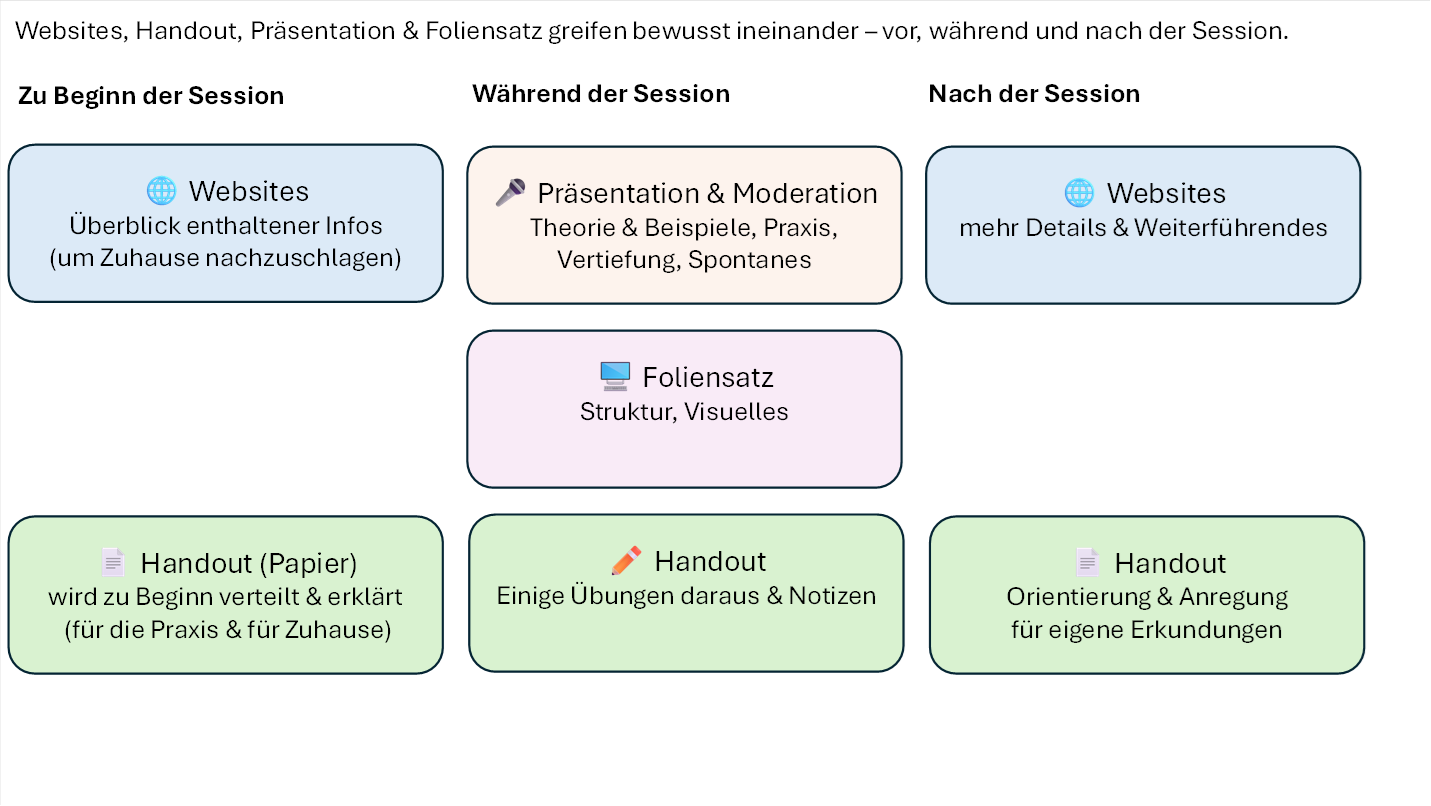
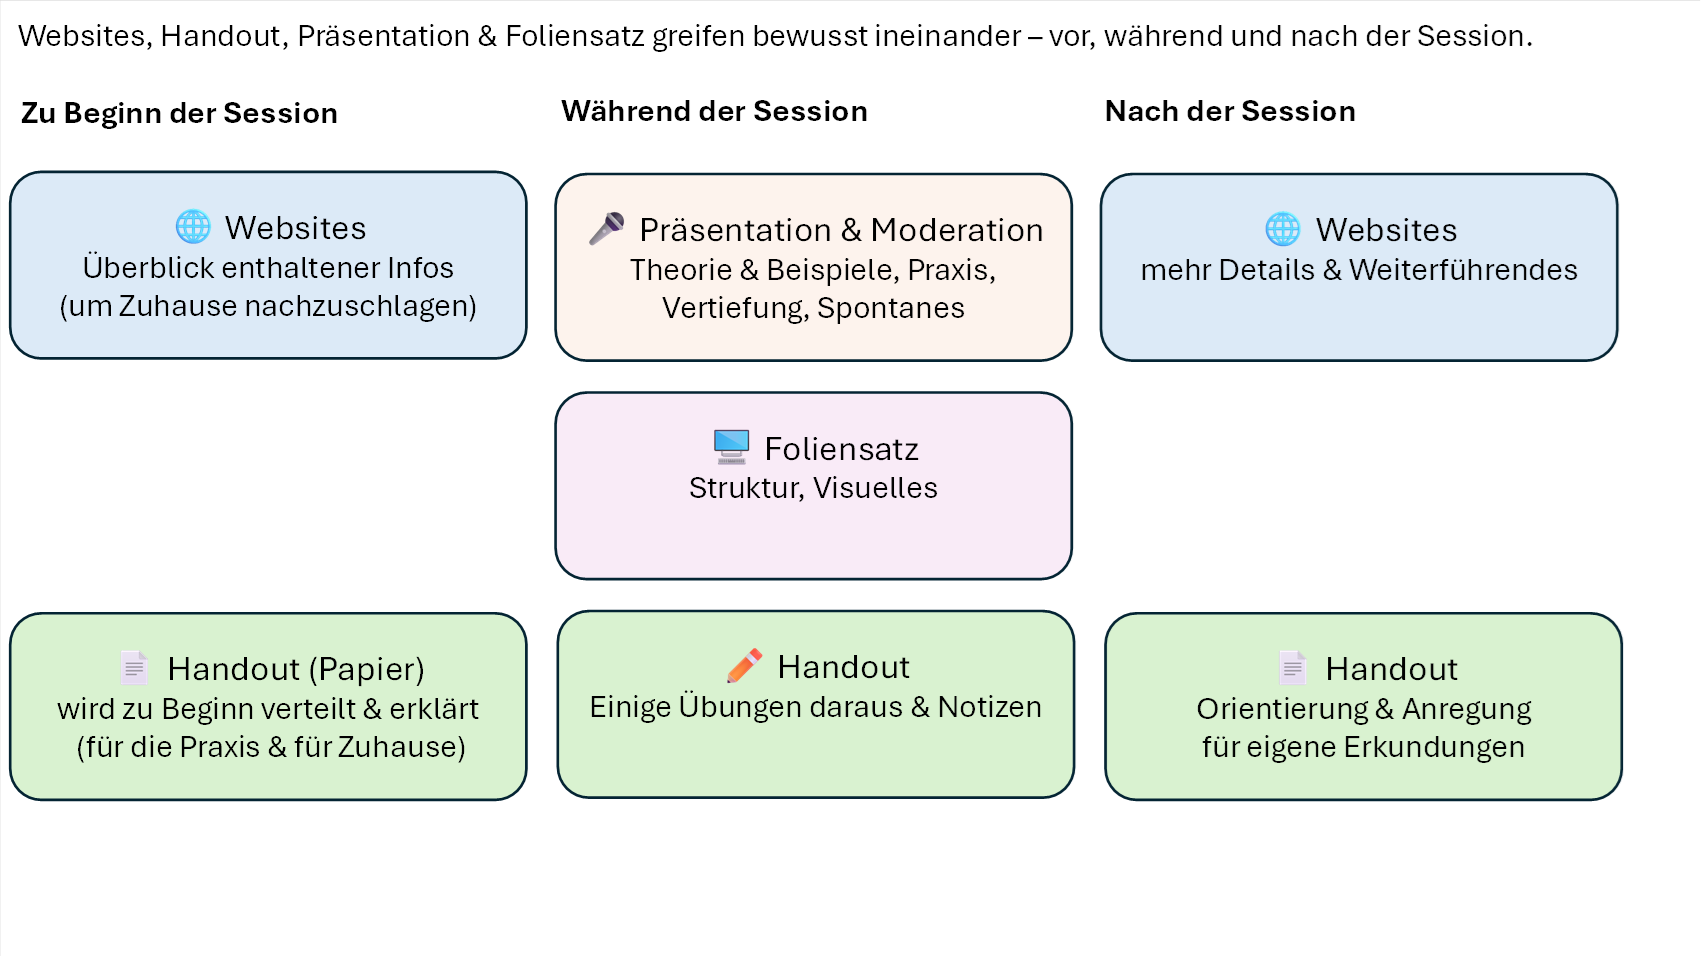
WS-Grafik angepasst

diff --git a/index.html b/index.html
@@ -341,7 +341,7 @@ text-decoration:none'>4</span></a></p>
 <h1><a name="_Toc214626414"><span style='color:windowtext'>Wie meine </span>KI-Sessions
 aufgebaut sind</a></h1>
 
-<p class=MsoNormal><img width=954 height=537 src="index-Dateien/image001.png"></p>
+<p class=MsoNormal><img width=1134 height=638 src="index-Dateien/image001.png"></p>
 
 <h1><a name="_Toc214626415">Warum mache ich das?</a></h1>
 
@@ -364,9 +364,8 @@ ich dieses Engagement weiterentwickle, werde ich von Zeit zu Zeit neu bewerten.<
 
 <p class=MsoNormal>&nbsp;</p>
 
-<p class=MsoNormal><img width=359 height=269 id="Picture 2"
-src="index-Dateien/image002.jpg"
-alt="I generated images with the prompt: 'Grafik für den Anfang der Veranstaltung: Eine visuelle Darstellung der Veranstaltungskomponenten, einschließlich dieser Präsentation, live Erläuterungen, ausgelagerte Dokumente, Praxisfälle in den Tools, Mitwirkung des Publikums (Fragen, Beiträge, praktische Übungen) und Diskussionen. Design sollte klar und ansprechend sein, mit Symbolen für jede Komponente.'"></p>
+<p class=MsoNormal><img width=1137 height=830 src="index-Dateien/image002.jpg"
+alt="Ein Bild, das Person, Kleidung, Cartoon, Im Haus enthält."></p>
 
 <p class=MsoNormal><span style='font-size:14.0pt;line-height:115%'><img
 width=147 height=20 id="Grafik 1" src="index-Dateien/image003.png"></span></p>
